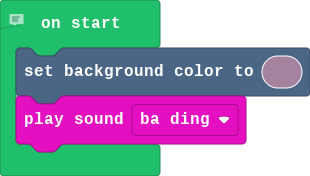
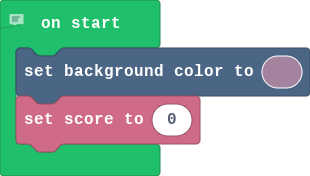
Update main.blocks, main.ts

Changed region(s): [[0.029, 0.5398, 0.8129, 0.8807]]

diff --git a/main.ts b/main.ts
@@ -1,3 +1,3 @@
 // Don't forget to comment your code as you work!
 scene.setBackgroundColor(11)
-music.baDing.play()
+info.setScore(0)
